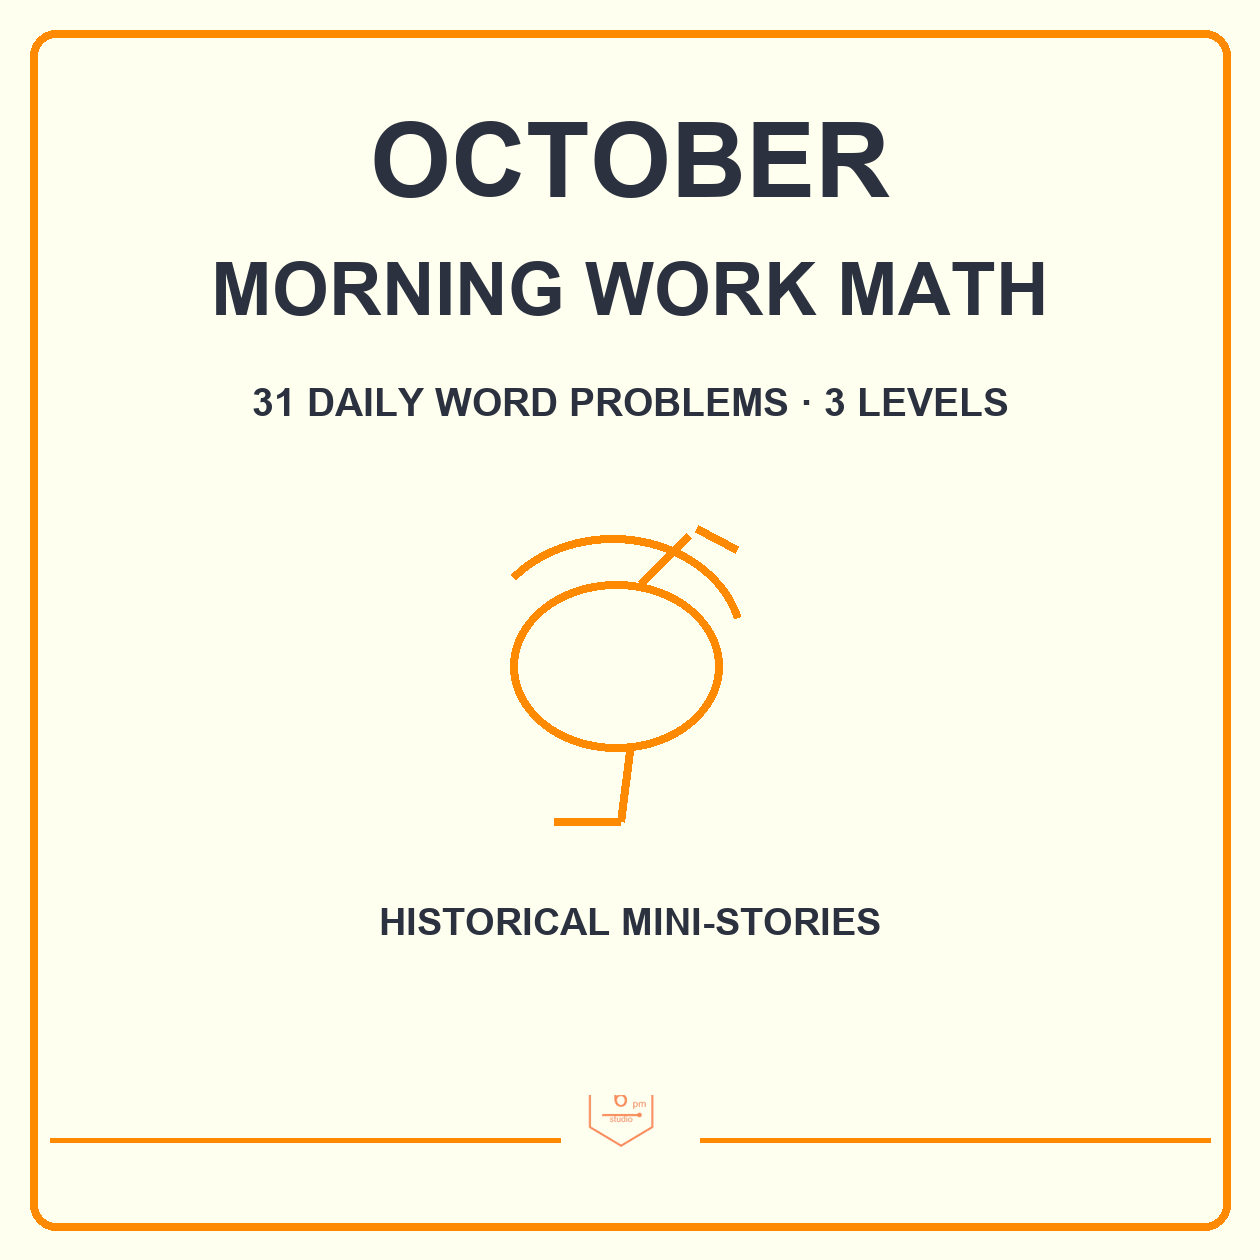
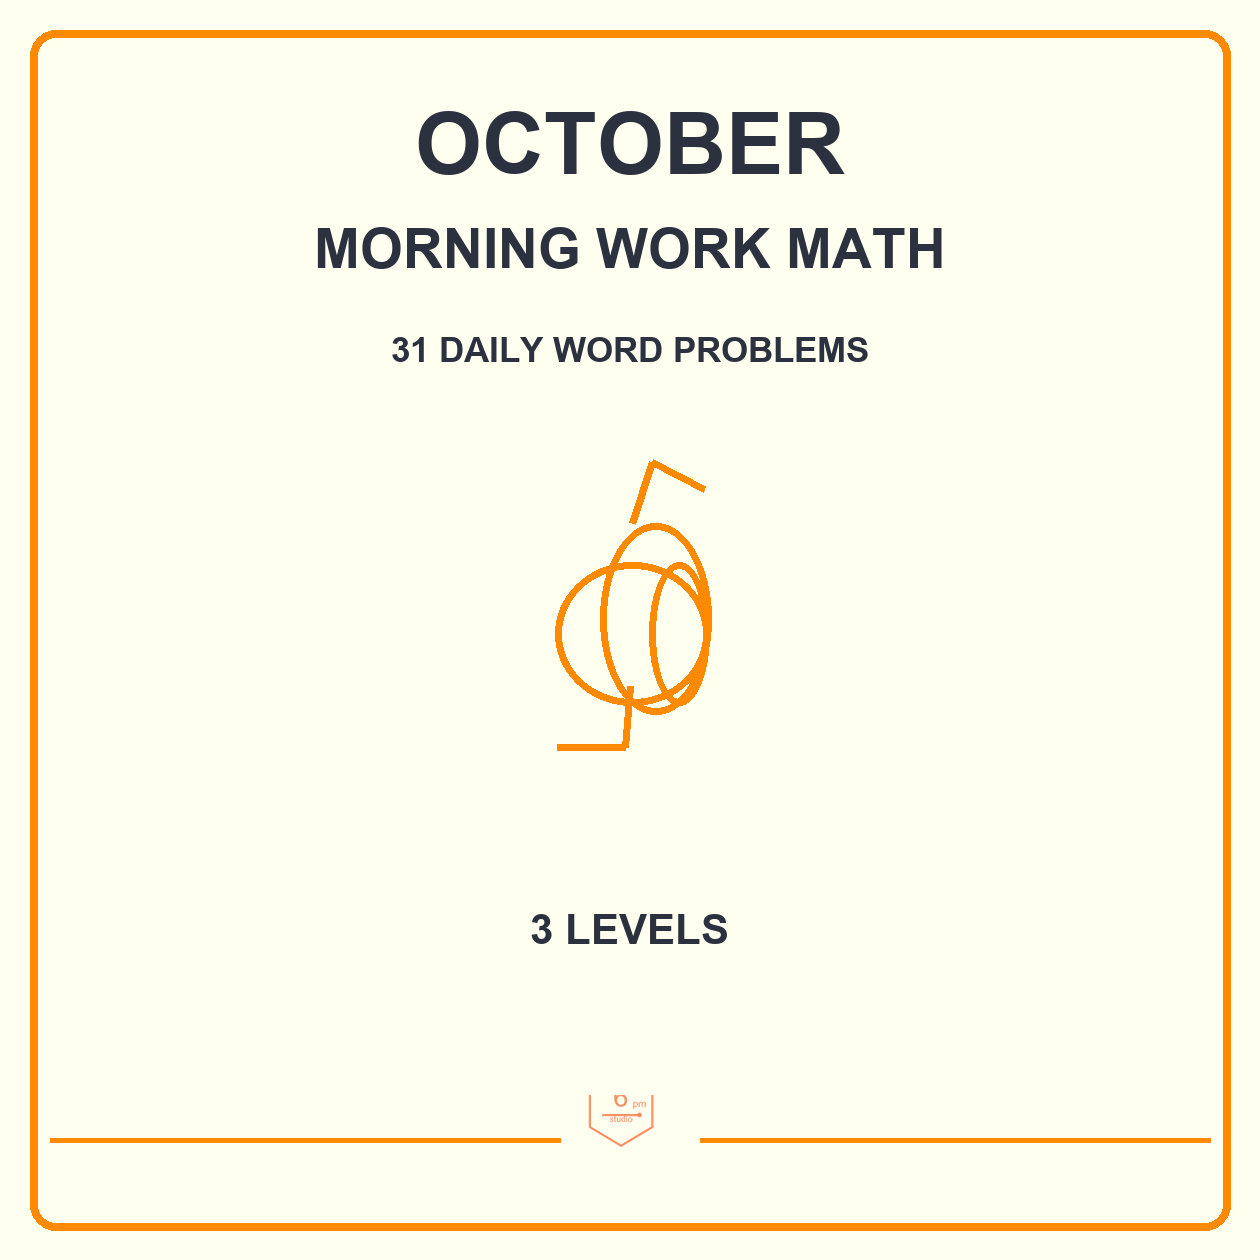
Align October thumbnails with production visual language

Changed region(s): [[0.1548, 0.0619, 0.8357, 0.3405], [0.4024, 0.3714, 0.5881, 0.681], [0.2786, 0.7119, 0.7119, 0.7738]]

diff --git a/scripts/generate_monthly_thumbnails.py b/scripts/generate_monthly_thumbnails.py
@@ -43,14 +43,31 @@ def base_canvas():
 
 
 def doodle(draw, center=(630, 560), scale=1.0):
+    """Draw the three-lobed pumpkin used by the October production assets."""
     cx, cy = center
     w = int(7 * scale)
-    draw.ellipse((cx - 104 * scale, cy - 60 * scale, cx + 80 * scale, cy + 88 * scale), outline=ORANGE, width=w)
-    draw.arc((cx - 130 * scale, cy - 100 * scale, cx + 100 * scale, cy + 92 * scale), 220, 345, fill=ORANGE, width=w)
-    draw.line((cx, cy + 82 * scale, cx - 8 * scale, cy + 150 * scale), fill=ORANGE, width=w)
-    draw.line((cx - 8 * scale, cy + 150 * scale, cx - 66 * scale, cy + 150 * scale), fill=ORANGE, width=w)
-    draw.line((cx + 10 * scale, cy - 58 * scale, cx + 52 * scale, cy - 100 * scale), fill=ORANGE, width=w)
-    draw.line((cx + 58 * scale, cy - 106 * scale, cx + 93 * scale, cy - 87 * scale), fill=ORANGE, width=w)
+    lobes = [(-68, -2, 72, 128), (-27, -38, 74, 136), (18, -2, 72, 128)]
+    for left, top, right, bottom in lobes:
+        draw.ellipse((cx + left * scale, cy + top * scale, cx + right * scale, cy + bottom * scale), outline=ORANGE, width=w)
+    draw.line((cx, cy + 110 * scale, cx - 4 * scale, cy + 166 * scale), fill=ORANGE, width=w)
+    draw.line((cx - 4 * scale, cy + 166 * scale, cx - 66 * scale, cy + 166 * scale), fill=ORANGE, width=w)
+    draw.line((cx + 2 * scale, cy - 38 * scale, cx + 20 * scale, cy - 93 * scale), fill=ORANGE, width=w)
+    draw.line((cx + 20 * scale, cy - 93 * scale, cx + 68 * scale, cy - 69 * scale), fill=ORANGE, width=w)
+
+
+def accented_title(draw, text, y, size, max_width=1080):
+    """Production-style title with short orange rays on both sides."""
+    centered(draw, text, y, size, max_width)
+    f = fitted(text, max_width, size)
+    text_width = draw.textbbox((0, 0), text, font=f)[2]
+    gap = 28
+    ray = 48
+    left = (SIZE - text_width) // 2 - gap
+    right = (SIZE + text_width) // 2 + gap
+    draw.line((left - ray, y + size // 2, left, y + size // 2), fill=ORANGE, width=7)
+    draw.line((left - ray + 8, y + size // 2 - 24, left - 10, y + size // 2 - 8), fill=ORANGE, width=7)
+    draw.line((right, y + size // 2, right + ray, y + size // 2), fill=ORANGE, width=7)
+    draw.line((right + 10, y + size // 2 - 8, right + ray - 8, y + size // 2 - 24), fill=ORANGE, width=7)
 
 
 def footer(canvas):
@@ -104,11 +121,11 @@ def logo(canvas, page):
 def compose_cover(month, out, source_page):
     canvas, draw = base_canvas(), ImageDraw.Draw(base_canvas())
     draw = ImageDraw.Draw(canvas)
-    centered(draw, month.upper(), 102, 104)
-    centered(draw, "MORNING WORK MATH", 248, 73)
-    centered(draw, "31 DAILY WORD PROBLEMS · 3 LEVELS", 380, 39)
-    doodle(draw, (630, 650), 1.15)
-    centered(draw, "HISTORICAL MINI-STORIES", 900, 38)
+    centered(draw, month.upper(), 96, 86)
+    centered(draw, "MORNING WORK MATH", 218, 55)
+    centered(draw, "31 DAILY WORD PROBLEMS", 330, 35)
+    doodle(draw, (630, 565), 1.10)
+    centered(draw, "3 LEVELS", 905, 42)
     footer(canvas)
     if source_page:
         logo(canvas, source_page)
@@ -118,11 +135,12 @@ def compose_cover(month, out, source_page):
 def compose_overview(month, out, source_page):
     canvas = base_canvas()
     draw = ImageDraw.Draw(canvas)
-    centered(draw, month.upper(), 92, 92)
-    centered(draw, "ONE STORY · THREE MATH LEVELS", 230, 51)
-    doodle(draw, (630, 580), 1.1)
-    centered(draw, "A DAILY ROUTINE WITH REAL HISTORY", 870, 37)
-    centered(draw, "MATH-FIRST · ROUTINE-FIRST · HISTORY DIFFERENTIATION", 940, 27)
+    centered(draw, month.upper(), 92, 86)
+    centered(draw, "MORNING WORK MATH", 218, 55)
+    centered(draw, "DAILY WORD PROBLEMS", 330, 35)
+    centered(draw, "HISTORICAL MINI-STORIES", 384, 35)
+    doodle(draw, (630, 600), 1.10)
+    centered(draw, "3 LEVELS", 920, 42)
     footer(canvas)
     if source_page:
         logo(canvas, source_page)
@@ -132,7 +150,7 @@ def compose_overview(month, out, source_page):
 def compose_whats_included(pages, out):
     canvas = base_canvas()
     draw = ImageDraw.Draw(canvas)
-    centered(draw, "WHAT'S INCLUDED", 28, 91, 920)
+    accented_title(draw, "WHAT'S INCLUDED", 40, 82, 920)
     for points in [((184, 42), (210, 62)), ((176, 78), (208, 78)), ((184, 114), (210, 94)), ((1076, 42), (1050, 62)), ((1084, 78), (1052, 78)), ((1076, 114), (1050, 94))]:
         draw.line(points, fill=ORANGE, width=10)
     for x, key, label in [(31, "story", "STORY"), (437, "level1", "LEVEL 1"), (843, "level2", "LEVEL 2")]:
@@ -160,10 +178,11 @@ def compose_different_math(pages, out):
 def compose_daily_practice(pages, out):
     canvas = base_canvas()
     draw = ImageDraw.Draw(canvas)
-    centered(draw, "READY FOR DAILY PRACTICE", 75, 69, 1080)
-    centered(draw, "ONE PROBLEM A DAY", 190, 48)
+    accented_title(draw, "READY FOR DAILY PRACTICE", 55, 64, 1080)
+    centered(draw, "ONE PROBLEM A DAY", 190, 44)
     card(canvas, pages["worksheet"], (280, 320, 700, 650), "DAILY WORD PROBLEM")
     footer(canvas)
+    centered(draw, "MORNING WORK  |  BELL RINGERS  |  HOMESCHOOL", 1048, 24, 1110)
     logo(canvas, pages["worksheet"])
     canvas.convert("RGB").save(out, "PNG", optimize=True)
 
@@ -216,6 +235,7 @@ def main():
     }
     checksums = {name: hashlib.sha256((args.output_dir / f"{prefix}-{name}.png").read_bytes()).hexdigest() for name in names}
     report = {
+        "design": "october-production-v1",
         "templates": names,
         "labels": labels,
         "checksums": checksums,
